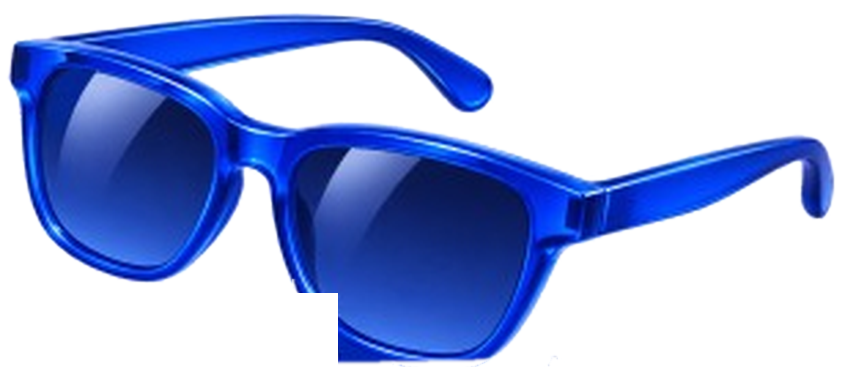
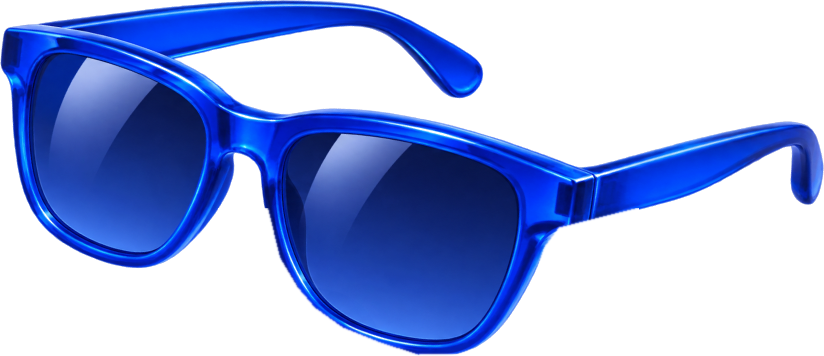
studio-site: clean glasses and smile cutouts, smooth glasses flight, fix text collisions
- glasses and smile cut from the full-resolution Figma frame
- glasses fly on one continuous curve without 3D skew
- headline sizes matched to Figma; taglines fitted to their designed width
- running copy in Google Sans; laptop drawn flat once open; phone no longer
  overlaps the copy; navigation moved to the bottom centre

Claude-Session: https://claude.ai/code/session_01AY1v9TRaK3PuKXLd3f2zqW

Changed region(s): [[0.0, 0.0, 1.0, 1.0], [0.8192, 0.5253, 0.8495, 0.5562], [0.4551, 0.4635, 0.4854, 0.4944]]

diff --git a/studio-site/js/objects/glasses.js b/studio-site/js/objects/glasses.js
@@ -1,12 +1,16 @@
 /**
  * The thread of the story: the blue sunglasses from screen 01.
- * They drop in when the site opens, rest on the title, then, with the scroll,
- * tilt down, turn and fly to the desk of screen 02, where they lie next to the
- * laptop (the scene's own copy takes over at the landing, see process.js).
+ * They drop in when the site opens and rest on the title. With the scroll they
+ * lift off, glide in one smooth curve over the desk of screen 02 and land next
+ * to the laptop, where the scene's own copy takes over (see process.js).
  *
- * Keyframes: t = timeline units (0..100), at = [scene, x, y] in frame px,
- * ['desk', x, y] in desk-layer px, or ['vp', fx, fy] viewport fractions;
- * w = width in frame px; rx / ry / rz = degrees.
+ * The photo is never skewed in 3D (that distorts it): the flight uses only
+ * position, size and a gentle in-plane turn, plus a shadow that grows softer
+ * and further away while they are in the air.
+ *
+ * Keyframes: t = timeline units, at = [scene, x, y] in frame px,
+ * ['desk', x, y] in desk-layer px or ['vp', fx, fy] viewport fractions,
+ * w = width in frame px, rz = degrees, rest = the glasses stand still there.
  */
 import { WELCOME, PROCESS } from '../config.js';
 import { LAND_T } from '../scenes/process.js';
@@ -16,14 +20,12 @@ const D = PROCESS.desk;
 const ON_DESK = PROCESS.glassesOnDesk;
 
 export const PATH = [
-  { t: 0, at: ['welcome', REST.x, REST.y], w: REST.w, rx: 0, ry: 0, rz: 0 },
-  { t: 3, at: ['welcome', REST.x, REST.y - 6], w: REST.w, rx: 0, ry: 0, rz: 0 },
-  { t: 8, at: ['vp', 0.62, 0.3], w: 640, rx: 30, ry: 35, rz: -24 },
-  { t: 12.5, at: ['vp', 0.74, 0.4], w: 430, rx: 48, ry: -18, rz: 14 },
-  { t: LAND_T, at: ['desk', ON_DESK.x, ON_DESK.y], w: ON_DESK.w * D.scale, rx: 0, ry: 0, rz: 0 },
+  { t: 0, at: ['welcome', REST.x, REST.y], w: REST.w, rz: 0, rest: true },
+  { t: 3.5, at: ['welcome', REST.x, REST.y - 10], w: REST.w, rz: 0 },
+  { t: 8, at: ['vp', 0.7, 0.3], w: 600, rz: -9 },
+  { t: 12.5, at: ['vp', 0.66, 0.48], w: 380, rz: 7 },
+  { t: LAND_T, at: ['desk', ON_DESK.x, ON_DESK.y], w: ON_DESK.w * D.scale, rz: 0, rest: true },
 ];
-
-const ease = (u) => u * u * (3 - 2 * u);
 
 export class Glasses {
   constructor(stage, layer) {
@@ -35,44 +37,59 @@ export class Glasses {
     this.drop = { y: 0, op: 1, rot: 0 }; // opening drop, tweened by main.js
   }
 
+  /** keyframe -> [screen x, screen y, screen width, rotation] */
   point(k) {
+    const st = this.stage;
+    let x; let y; let s;
     const [kind, a, b] = k.at;
-    if (kind === 'vp') return [a * this.stage.vw, b * this.stage.vh, this.stage.scale('welcome')];
-    if (kind === 'desk') {
-      const [x, y] = this.stage.toScreen('process', D.x + a * D.scale, D.y + (b - D.refY0) * D.scale);
-      return [x, y, this.stage.scale('process')];
-    }
-    const [x, y] = this.stage.toScreen(kind, a, b);
-    return [x, y, this.stage.scale(kind)];
+    if (kind === 'vp') { x = a * st.vw; y = b * st.vh; s = st.scale('welcome'); }
+    else if (kind === 'desk') { [x, y] = st.toScreen('process', D.x + a * D.scale, D.y + (b - D.refY0) * D.scale); s = st.scale('process'); }
+    else { [x, y] = st.toScreen(kind, a, b); s = st.scale(kind); }
+    return [x, y, k.w * s, k.rz];
+  }
+
+  /**
+   * Time-knotted cubic Hermite through all keyframes: speed is continuous,
+   * so the flight is one gesture instead of hops; rests get a zero tangent.
+   */
+  sample(t) {
+    const P = PATH;
+    const pts = P.map((k) => this.point(k));
+    let i = 0;
+    while (i < P.length - 2 && t > P[i + 1].t) i++;
+    const t0 = P[i].t; const t1 = P[i + 1].t; const dt = t1 - t0;
+    const u = Math.min(Math.max((t - t0) / dt, 0), 1);
+    const tan = (j) => {
+      if (P[j].rest) return [0, 0, 0, 0];
+      const a = Math.max(j - 1, 0); const b = Math.min(j + 1, P.length - 1);
+      return pts[b].map((v, c) => (v - pts[a][c]) / (P[b].t - P[a].t));
+    };
+    const m0 = tan(i); const m1 = tan(i + 1);
+    const u2 = u * u; const u3 = u2 * u;
+    const h00 = 2 * u3 - 3 * u2 + 1; const h10 = u3 - 2 * u2 + u; const h01 = -2 * u3 + 3 * u2; const h11 = u3 - u2;
+    const v = pts[i].map((p0, c) => h00 * p0 + h10 * dt * m0[c] + h01 * pts[i + 1][c] + h11 * dt * m1[c]);
+    // height above the page: 0 at the rests, 1 in the middle of the flight
+    const air = Math.sin(Math.min(Math.max((t - P[1].t) / (P[P.length - 1].t - P[1].t), 0), 1) * Math.PI);
+    return { x: v[0], y: v[1], w: v[2], rz: v[3], air };
   }
 
   render(t, now, pointer) {
-    const P = PATH;
     const visible = t < LAND_T;
     this.el.style.visibility = visible ? 'visible' : 'hidden';
     if (!visible) return;
-    let i = 0;
-    while (i < P.length - 2 && t > P[i + 1].t) i++;
-    const k0 = P[i]; const k1 = P[i + 1];
-    const u = ease(Math.min(Math.max((t - k0.t) / (k1.t - k0.t), 0), 1));
-    const [x0, y0, s0] = this.point(k0); const [x1, y1, s1] = this.point(k1);
-    // a gentle arc between keyframes: lift in the middle of each hop
-    const lift = Math.sin(u * Math.PI) * 40 * s1;
-    const x = x0 + (x1 - x0) * u;
-    const y = y0 + (y1 - y0) * u - lift;
-    const w = k0.w * s0 + (k1.w * s1 - k0.w * s0) * u;
-    const lerp = (p) => k0[p] + (k1[p] - k0[p]) * u;
+    const { x, y, w, rz, air } = this.sample(t);
+    const s0 = this.stage.scale('welcome');
     const calm = Math.max(0, 1 - t / 3);
     const bob = Math.sin(now * 1.4) * 5 * s0 * calm;
     const px = pointer.sx * 26 * s0 * calm; const py = pointer.sy * 16 * s0 * calm;
-    const h = w * 0.45;
+    const h = w * (356 / 824);
     this.el.style.width = `${w}px`;
     this.el.style.height = `${h}px`;
     this.el.style.opacity = this.drop.op;
-    this.el.style.transform = `translate3d(${x - w / 2 + px}px, ${y - h / 2 + bob + py + this.drop.y * s0}px, 0) rotateX(${lerp('rx')}deg) rotateY(${lerp('ry') + pointer.sx * 10 * calm}deg) rotateZ(${lerp('rz') + this.drop.rot - pointer.sx * 3 * calm}deg)`;
-    // shadow grows softer while the glasses are up in the air
-    const air = Math.sin(u * Math.PI) * (i > 0 ? 1 : 0) + (this.drop.y < -5 ? 1 : 0);
-    this.el.style.setProperty('--sh', `${8 + air * 26}px`);
-    this.el.style.setProperty('--sy', `${14 + air * 40}px`);
+    this.el.style.transform = `translate3d(${x - w / 2 + px}px, ${y - h / 2 + bob + py + this.drop.y * s0}px, 0) rotate(${rz + this.drop.rot - pointer.sx * 3 * calm}deg) scale(${1 + air * 0.06})`;
+    const inAir = air + (this.drop.y < -5 ? 1 : 0);
+    this.el.style.setProperty('--sh', `${8 + inAir * 22}px`);
+    this.el.style.setProperty('--sy', `${12 + inAir * 46}px`);
+    this.el.style.setProperty('--so', `${0.22 - inAir * 0.08}`);
   }
 }

diff --git a/studio-site/css/main.css b/studio-site/css/main.css
@@ -45,8 +45,7 @@ body { background: var(--bg); color: var(--ink); font-family: 'Rubik', system-ui
 .badge svg { width: 100%; height: 100%; display: block; transition: transform .5s cubic-bezier(.2,.8,.2,1); }
 .badge:hover svg { transform: translate(3px, 3px); }
 .badge-num { line-height: 1.2; }
-.smile { left: 0; top: 0; width: 1920px; height: 1080px; }
-.smile svg { display: block; }
+.smile img { display: block; width: 100%; height: 100%; }
 
 /* ---------------- photos & objects ---------------- */
 .photo { position: absolute; }
@@ -62,8 +61,8 @@ body { background: var(--bg); color: var(--ink); font-family: 'Rubik', system-ui
 .desk-glasses, .contact-glasses { filter: drop-shadow(0 12px 10px rgba(10,18,64,.25)); }
 .desk-glasses img, .contact-glasses img, .glasses-fly img { display: block; width: 100%; height: 100%; object-fit: contain; }
 .glasses-fly { position: absolute; left: 0; top: 0; transform-style: preserve-3d; will-change: transform;
-  filter: drop-shadow(0 var(--sy, 14px) var(--sh, 8px) rgba(10, 18, 64, .22)); }
-.glasses-static { left: 1060px; top: 302px; width: 845px; }
+  filter: drop-shadow(0 var(--sy, 14px) var(--sh, 8px) rgba(10, 18, 64, var(--so, .22))); }
+.glasses-static { left: 1082px; top: 313px; width: 824px; }
 .lid { transform-style: preserve-3d; }
 .screen-blank { background: linear-gradient(170deg, #FBFBFE, #EEF0FB); }
 
@@ -118,40 +117,26 @@ body { background: var(--bg); color: var(--ink); font-family: 'Rubik', system-ui
 
 /* ---------------- navigation ---------------- */
 .scene-nav {
-  position: fixed; z-index: 60; top: 50%; right: clamp(14px, 2.4vw, 34px);
-  transform: translateY(-50%);
-  display: flex; flex-direction: column; gap: 6px;
+  position: fixed; z-index: 60; bottom: 18px; left: 50%; transform: translateX(-50%);
+  display: flex; gap: 4px; padding: 4px 8px; border-radius: 999px;
+  background: rgba(255,255,255,.6); backdrop-filter: blur(10px); -webkit-backdrop-filter: blur(10px);
+  box-shadow: 0 6px 20px -12px rgba(7,12,130,.35);
   --p: 0;
 }
-.scene-nav::before {
-  content: ''; position: absolute; right: 0; top: 4px; bottom: 4px; width: 2px;
-  background: rgba(0, 36, 170, 0.12); border-radius: 2px;
-}
 .scene-nav::after {
-  content: ''; position: absolute; right: 0; top: 4px; width: 2px; height: calc((100% - 8px) * var(--p));
-  background: var(--cobalt-bright); border-radius: 2px;
+  content: ''; position: absolute; left: 14px; right: 14px; bottom: 4px; height: 2px; transform-origin: 0 50%;
+  transform: scaleX(var(--p)); background: var(--cobalt-bright); border-radius: 2px;
 }
 .scene-nav button {
-  appearance: none; border: 0; background: none; cursor: pointer;
-  display: flex; align-items: center; justify-content: flex-end; gap: 10px;
-  font: 500 13px/1 'Google Sans', sans-serif; letter-spacing: 0.08em;
-  color: rgba(7, 12, 130, 0.62); padding: 10px 16px 10px 6px; text-align: right;
-  transition: color .35s ease, transform .35s ease;
+  appearance: none; border: 0; background: none; cursor: pointer; display: flex; align-items: center; gap: 8px;
+  font: 500 13px/1 'Google Sans', sans-serif; letter-spacing: 0.08em; color: rgba(7, 12, 130, 0.55); padding: 10px 12px;
+  transition: color .3s ease;
 }
-.nav-num { position: relative; }
-.nav-num::after {
-  content: ''; position: absolute; right: -16px; top: 50%; width: 6px; height: 6px; margin-top: -3px; margin-right: -2px;
-  border-radius: 50%; background: currentColor; transform: scale(0); transition: transform .35s cubic-bezier(.2,.8,.2,1);
-}
-.nav-label {
-  font-weight: 700; font-size: 11px; letter-spacing: 0.14em; white-space: nowrap;
-  opacity: 0; transform: translateX(6px); transition: opacity .3s ease, transform .3s ease;
-}
-.scene-nav button:hover { color: var(--cobalt-bright); }
-.scene-nav button:hover .nav-label, .scene-nav button:focus-visible .nav-label { opacity: 1; transform: none; }
-.scene-nav button[aria-current='step'] { color: var(--cobalt); }
-.scene-nav button[aria-current='step'] .nav-num::after { transform: scale(1); }
-.scene-nav button:focus-visible { outline: 2px solid var(--cobalt-bright); outline-offset: 2px; border-radius: 4px; }
+.nav-label { font-weight: 700; font-size: 11px; letter-spacing: 0.14em; white-space: nowrap; max-width: 0; overflow: hidden; opacity: 0;
+  transition: max-width .4s ease, opacity .3s ease; }
+.scene-nav button:hover, .scene-nav button[aria-current='step'] { color: var(--cobalt); }
+.scene-nav button:hover .nav-label, .scene-nav button[aria-current='step'] .nav-label, .scene-nav button:focus-visible .nav-label { max-width: 120px; opacity: 1; }
+.scene-nav button:focus-visible { outline: 2px solid var(--cobalt-bright); outline-offset: 2px; border-radius: 999px; }
 /* ---------------- art-direction overlay (?ref=1 / Alt+R) ---------------- */
 .ref-overlay { left: 0; top: 0; width: 1920px; height: 1080px; opacity: .45; mix-blend-mode: multiply; pointer-events: none; z-index: 999; }
 
@@ -167,9 +152,6 @@ html.is-static .scene-nav::after { display: none; }
 html.is-static .desk-glasses { visibility: visible !important; }
 
 @media (max-width: 759px) {
-  .scene-nav { top: auto; bottom: 14px; right: 50%; transform: translateX(50%); flex-direction: row; gap: 2px;
-    background: rgba(255,255,255,.75); backdrop-filter: blur(10px); border-radius: 999px; padding: 2px 6px; }
-  .scene-nav::before, .scene-nav::after { display: none; }
+  .nav-label { display: none; }
   .scene-nav button { padding: 11px 9px; }
-  .nav-label, .nav-num::after { display: none; }
 }

diff --git a/studio-site/js/config.js b/studio-site/js/config.js
@@ -9,7 +9,7 @@
 
 export const FONTS = {
   display: "'Archivo Black', 'Archivo', 'Arial Black', sans-serif",
-  text: "'Rubik', 'Google Sans', system-ui, sans-serif",
+  text: "'Google Sans', 'Rubik', system-ui, sans-serif",
   latin: "'Google Sans', 'Google Sans Flex', 'Rubik', sans-serif",
 };
 
@@ -27,7 +27,7 @@ const FULL = [0, 0, 1920, 1080];
 
 /* ---------------------------------------------------------------- 01 */
 export const WELCOME = {
-  id: 'welcome', index: '01', label: 'YOU’RE WELCOME', bg: '#F1F1F7', ref: 'tools/ref/new-01.jpg',
+  id: 'welcome', index: '01', label: 'YOU’RE WELCOME', bg: '#F1F1F7', ref: 'tools/ref/new-01.png',
   crop: { desktop: FULL, mobile: [120, 240, 1790, 640] },
   badge: { x: 185, y: 271, size: 60, num: { x: 263, y: 283, size: 35 } },
   copy: {
@@ -35,14 +35,15 @@ export const WELCOME = {
     left: 395, top: 286, size: 20, lh: 25, weight: 500, color: COLORS.bright,
   },
   title: [
-    { text: 'Youre', x: 142, y: 310, size: 266, ls: -15 },
-    { text: 'welcome', x: 185, y: 518, size: 266, ls: -13 },
+    { text: 'Youre', x: 150, y: 288, size: 278, ls: -21 },
+    { text: 'welcome', x: 189, y: 506, size: 278, ls: -14 },
   ],
   // the smile under the glasses (drawn as a line, so it can be "signed")
-  smile: { d: 'M1630 652 Q1575 850 1305 812', width: 32 },
-  tagline: { text: 'WE STARTING FROM HERE', x: 187, y: 798, size: 35, ls: 30.8, line: { x: 187, y: 838, w: 487, h: 4 } },
+  // the smile: a crescent like the rotated ')' in Figma (filled shape)
+  smile: { x: 1411, y: 640, w: 245, h: 174 },
+  tagline: { text: 'WE STARTING FROM HERE', x: 199, y: 795, size: 35, w: 1062, line: { x: 187, y: 838, w: 487, h: 4 } },
   // the glasses at rest (centre, width) — see objects/glasses.js
-  glasses: { x: 1482, y: 491, w: 845 },
+  glasses: { x: 1494, y: 491, w: 824 },
 };
 
 /* ---------------------------------------------------------------- 02 */
@@ -52,13 +53,13 @@ export const PROCESS = {
   badge: { x: 146, y: 333, size: 41, num: { x: 199, y: 343, size: 24 } },
   copy: {
     lines: ['לפני שמתחילים, לתהליך נכון יש משקל חשוב.', 'להבין מה צריך ומה נכון לנו עסקית, ואיך אנחנו עובדים חכם.', 'חושבים את זה,  בונים את זה, ומעצבים מוצר יפה. נכון.'],
-    left: 146, top: 452, size: 20, lh: 25, weight: 500, color: COLORS.bright,
+    left: 146, top: 432, size: 20, lh: 24, weight: 500, color: COLORS.bright,
   },
   title: [
     { text: 'TO THE', x: 143, y: 511, size: 150, ls: -16 },
     { text: 'PROCESS', x: 146, y: 648, size: 149, ls: -7.4 },
   ],
-  tagline: { text: 'FROM STRATEGY TO EXECUTION', x: 159, y: 790, size: 24, ls: 15.9, line: { x: 160, y: 826, w: 369, h: 3 } },
+  tagline: { text: 'FROM STRATEGY TO EXECUTION', x: 159, y: 790, size: 24, w: 734, line: { x: 160, y: 826, w: 369, h: 3 } },
   // desk photo layers: frame px = deskX + refX * deskScale (layers are in the old frame's px)
   desk: { x: 931, y: 197, scale: 0.919, refY0: 826 },
   swatchPivot: { x: 186, y: 1318 },
@@ -81,7 +82,7 @@ export const RESULT = {
     right: 1774, top: 553, size: 20, lh: 25, weight: 500, color: COLORS.bright,
   },
   // device photo layers: frame px = x + refX * scale
-  devices: { x: 640, y: -281, scale: 0.88 },
+  devices: { x: 648, y: -260, scale: 0.848 },
   hinge: { x0: 300, y0: 1127, x1: 840, y1: 1083 },
   phonePivot: { x: 860, y: 1160 },
 };

diff --git a/studio-site/js/scenes/welcome.js b/studio-site/js/scenes/welcome.js
@@ -19,20 +19,19 @@ export function createWelcome(stage, cfg) {
   const words = cfg.title.map((t) => headline(titleBox, t));
   const chars = words.flatMap((w) => w.chars);
 
-  // smile: an arc drawn with a round stroke
+  // smile: drawn from right to left, like a signature
   const S = cfg.smile;
-  const svg = el('div', 'smile', art);
-  svg.innerHTML = `<svg width="1920" height="1080" viewBox="0 0 1920 1080" aria-hidden="true"><path d="${S.d}" fill="none" stroke="#0024AA" stroke-width="${S.width}" stroke-linecap="butt"/></svg>`;
-  const arc = svg.querySelector('path');
+  const svg = el('div', 'smile', art, { left: `${S.x}px`, top: `${S.y}px`, width: `${S.w}px`, height: `${S.h}px` });
+  svg.innerHTML = '<img src="assets/scene/smile.png" alt="">';
   const tag = tagline(art, cfg.tagline);
 
   function intro(tl) {
-    const len = arc.getTotalLength();
     tl.from(b.root, { scale: 0.4, opacity: 0, duration: 0.6, ease: 'back.out(2)' }, 0.9)
       .from(b.num, { opacity: 0, x: -10, duration: 0.5 }, 1.0)
       .from(words[0].chars, { yPercent: 60, rotate: (i) => (i % 2 ? 9 : -11), opacity: 0, duration: 0.9, stagger: 0.07, ease: 'back.out(2.2)' }, 1.0)
       .from(words[1].chars, { yPercent: 60, rotate: (i) => (i % 2 ? -8 : 10), opacity: 0, duration: 0.9, stagger: 0.06, ease: 'back.out(2.2)' }, 1.25)
-      .fromTo(arc, { strokeDasharray: len, strokeDashoffset: len }, { strokeDashoffset: 0, duration: 0.9, ease: 'power2.inOut' }, 1.9)
+      .fromTo(svg, { clipPath: 'inset(0% 0% 0% 100%)' }, { clipPath: 'inset(0% 0% 0% 0%)', duration: 0.9, ease: 'power2.inOut' }, 1.9)
+      .set(svg, { clipPath: 'none' })
       .from(c.words, { opacity: 0, filter: 'blur(8px)', y: 6, duration: 0.7, stagger: 0.05, ease: 'power2.out' }, 1.6)
       .from(tag.root, { letterSpacing: '0px', opacity: 0, duration: 1.4, ease: 'expo.out' }, 2.0)
       .from(tag.line, { scaleX: 0, transformOrigin: '0 50%', duration: 1.1, ease: 'expo.out' }, 2.1);
@@ -45,7 +44,7 @@ export function createWelcome(stage, cfg) {
       x: () => rnd(-120, 120), y: () => rnd(-280, -120), scale: () => rnd(0.2, 0.45), rotate: () => rnd(-30, 30), opacity: 0,
       duration: 3, stagger: { each: 0.1, from: 'random' }, ease: 'power2.in',
     }, a0 + 0.3)
-      .to(svg, { opacity: 0, scale: 0.6, transformOrigin: '1430px 640px', duration: 2 }, a0 + 0.3)
+      .to(svg, { opacity: 0, scale: 0.6, transformOrigin: '60% 0%', duration: 2 }, a0 + 0.3)
       .to([c.root, b.root, b.num], { opacity: 0, y: -30, duration: 2.2, ease: 'power1.in' }, a0 + 0.3)
       .to([tag.root, tag.line], { opacity: 0, duration: 1.8 }, a0 + 0.5)
       .to(s.section, { autoAlpha: 0, duration: 1.2 }, a0 + 3.4);

diff --git a/studio-site/js/scenes/result.js b/studio-site/js/scenes/result.js
@@ -66,6 +66,8 @@ export function createResult(stage, cfg) {
     tl.fromTo(c.lines.map((l) => l.firstChild), { yPercent: 110 }, { yPercent: 0, duration: 2, stagger: 0.4, ease: 'power3.out' }, b0 + 5)
       .fromTo(dev, { yPercent: 8, opacity: 0 }, { yPercent: 0, opacity: 1, duration: 4, ease: 'power3.out' }, c0 + 5)
       .fromTo(lid, { transform: lidOpen(82) }, { transform: lidOpen(0), duration: 4.5, ease: 'power2.inOut' }, b0 + 0.5)
+      // once open, drop the 3D transform so the screen is drawn flat and sharp
+      .set(lid, { transform: 'none' }, b0 + 5.02)
       .fromTo(blank, { opacity: 0 }, { opacity: 1, duration: 1 }, b0 + 4.5)
       .fromTo(blocks, { opacity: 0, y: 14, scale: 0.94 }, { opacity: 1, y: 0, scale: 1, duration: 1.3, stagger: 0.5, ease: 'power3.out' }, b0 + 5.2)
       .fromTo(full, { opacity: 0 }, { opacity: 1, duration: 1 }, b0 + 5.2 + 0.5 * blocks.length + 0.8)

diff --git a/studio-site/js/core/text.js b/studio-site/js/core/text.js
@@ -63,6 +63,16 @@ export function tagline(parent, o) {
   });
   root.setAttribute('aria-hidden', 'true');
   splitWords(root, o.text, 'tw');
+  if (o.w) {
+    // fit the tracking so the line spans exactly the designed width
+    const fit = () => {
+      root.style.letterSpacing = '0px';
+      const w0 = root.getBoundingClientRect().width / (root.closest('.art')?.getBoundingClientRect().width / 1920 || 1);
+      const n = o.text.length - 1;
+      root.style.letterSpacing = `${(o.w - w0) / n}px`;
+    };
+    fit(); document.fonts?.ready.then(fit); root._fit = fit;
+  }
   const line = o.line ? el('i', 'underline', parent, {
     left: `${o.line.x}px`, top: `${o.line.y}px`, width: `${o.line.w}px`, height: `${o.line.h}px`,
   }) : null;
